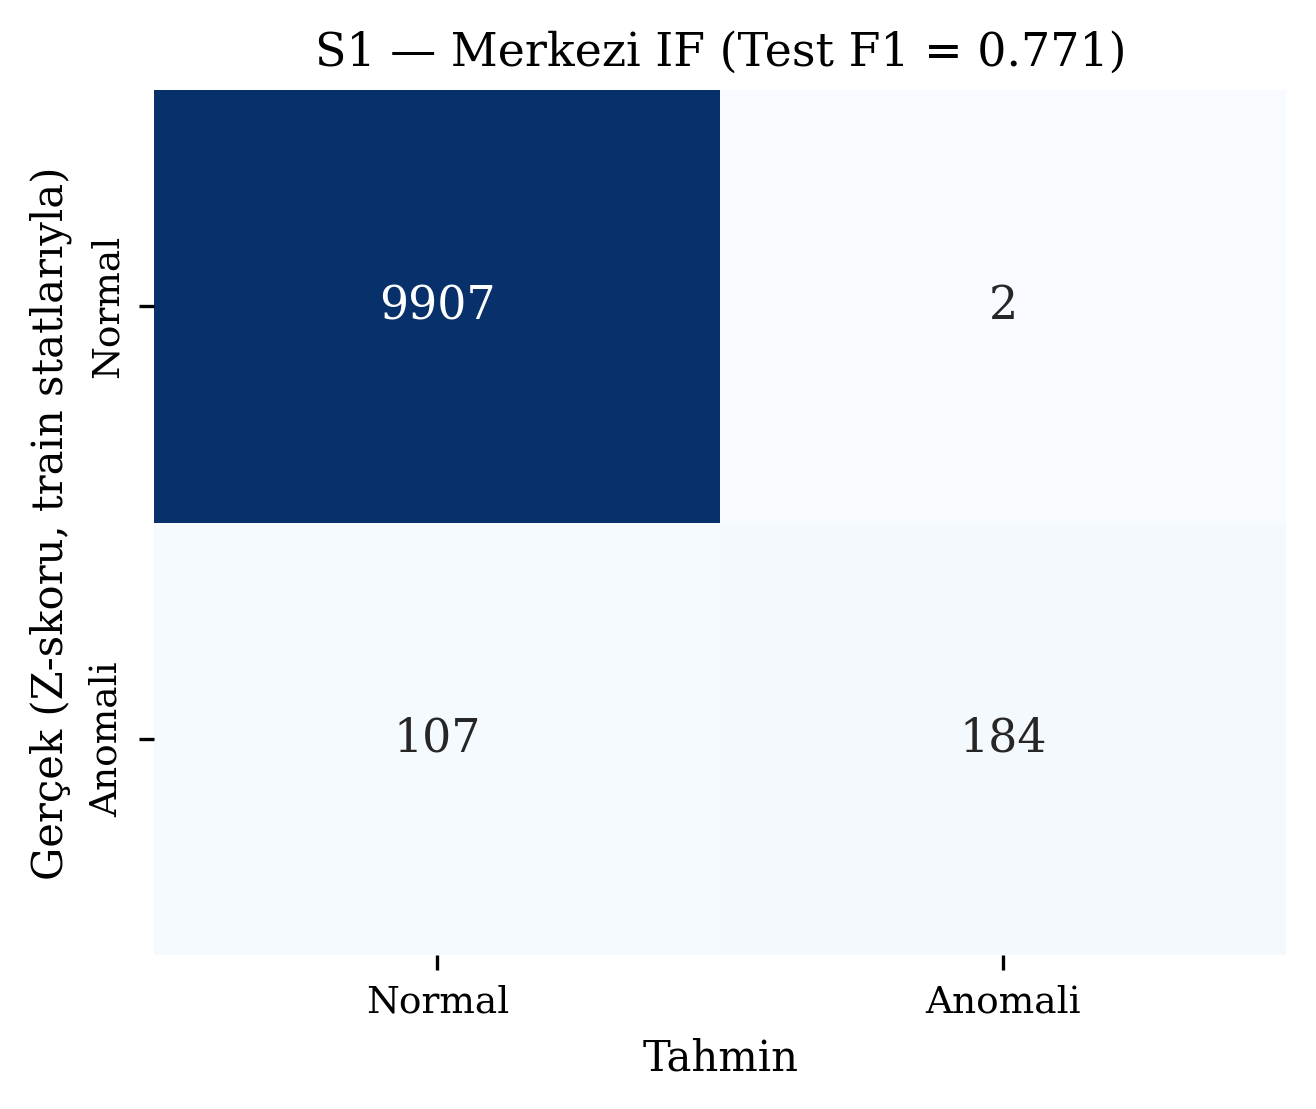
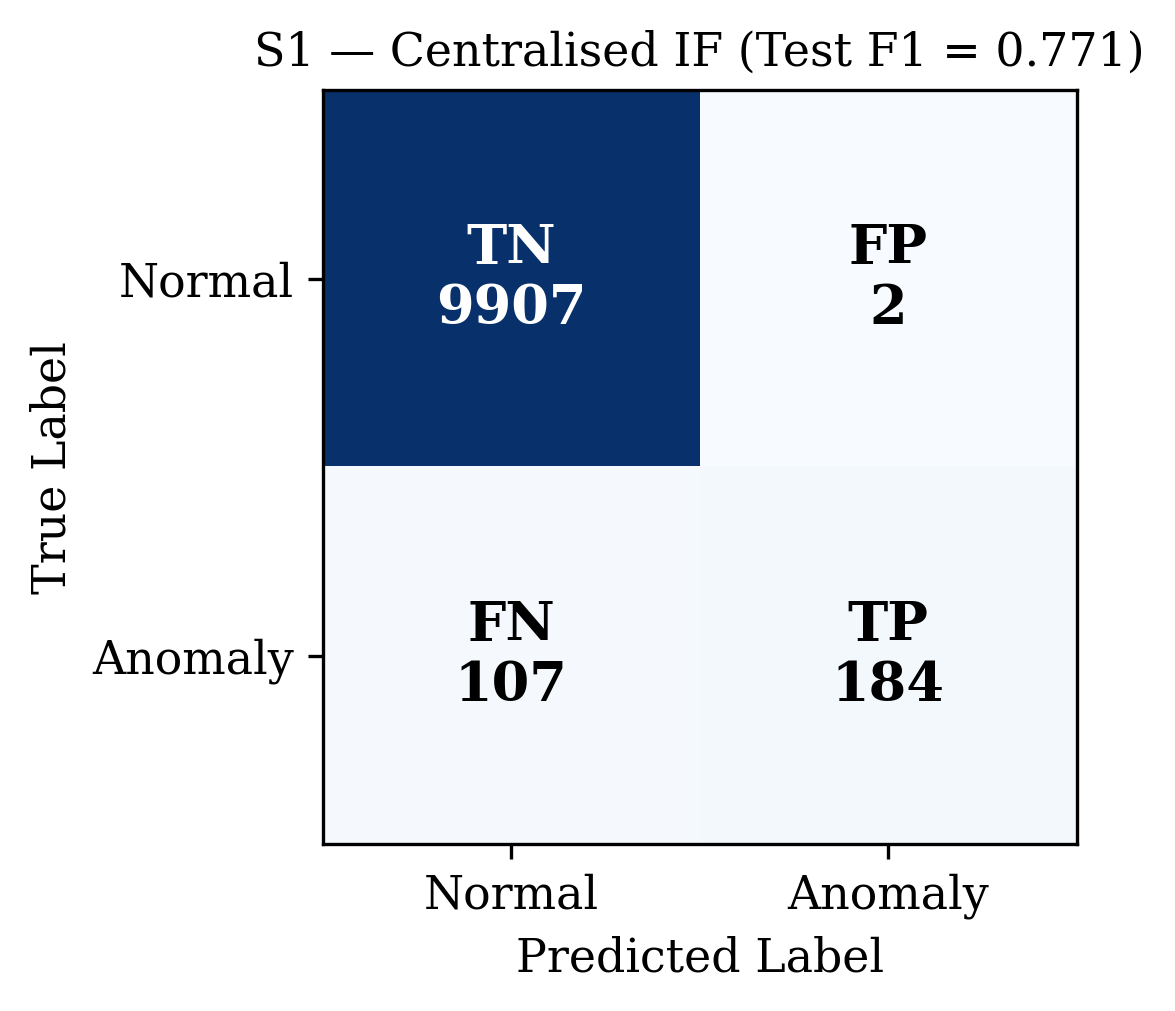
fix(fig08): English labels on confusion matrix

diff --git a/src/generate_fig08.py b/src/generate_fig08.py
@@ -1,0 +1,82 @@
+"""
+generate_fig08.py
+==================
+S1 Isolation Forest confusion matrix - English labels.
+Hardcoded values from baseline experiment:
+  TP=184, FP=2, FN=107, TN=9907
+
+Calistirma:
+    source ~/fl-env/bin/activate
+    cd ~/fl-its
+    python src/generate_fig08.py
+
+Cikti:
+    results/fig08_s1_confusion_matrix.png
+"""
+
+import os
+import numpy as np
+import matplotlib
+matplotlib.use("Agg")
+import matplotlib.pyplot as plt
+
+# ── Paths ─────────────────────────────────────────────────────────────────────
+
+REPO_ROOT   = os.path.join(os.path.dirname(os.path.abspath(__file__)), "..")
+RESULTS_DIR = os.path.join(REPO_ROOT, "results")
+OUT_PATH    = os.path.join(RESULTS_DIR, "fig08_s1_confusion_matrix.png")
+
+# ── Stil ──────────────────────────────────────────────────────────────────────
+
+plt.rcParams.update({
+    "font.family":    "serif",
+    "font.size":      11,
+    "figure.dpi":     300,
+    "savefig.dpi":    300,
+    "savefig.bbox":   "tight",
+})
+
+# ── Confusion Matrix Degerleri ────────────────────────────────────────────────
+
+TN, FP = 9907, 2
+FN, TP = 107,  184
+
+cm = np.array([[TN, FP],
+               [FN, TP]])
+
+labels = np.array([["TN\n9907", "FP\n2"],
+                   ["FN\n107",  "TP\n184"]])
+
+# ── Ciz ──────────────────────────────────────────────────────────────────────
+
+fig, ax = plt.subplots(figsize=(4.0, 3.5))
+
+# Renk haritasi — koyu = yuksek deger
+im = ax.imshow(cm, interpolation="nearest",
+               cmap=plt.cm.Blues)
+
+# Deger etiketleri
+thresh = cm.max() / 2.0
+for i in range(2):
+    for j in range(2):
+        ax.text(j, i, labels[i, j],
+                ha="center", va="center",
+                fontsize=13, fontweight="bold",
+                color="white" if cm[i, j] > thresh else "black")
+
+# Eksenler
+ax.set_xticks([0, 1])
+ax.set_yticks([0, 1])
+ax.set_xticklabels(["Normal", "Anomaly"], fontsize=11)
+ax.set_yticklabels(["Normal", "Anomaly"], fontsize=11)
+ax.set_xlabel("Predicted Label", fontsize=11)
+ax.set_ylabel("True Label", fontsize=11)
+ax.set_title(f"S1 — Centralised IF (Test F1 = 0.771)", fontsize=11)
+
+plt.tight_layout()
+plt.savefig(OUT_PATH)
+plt.close()
+
+print(f"fig08 kaydedildi: {OUT_PATH}")
+print(f"  TP={TP}, FP={FP}, FN={FN}, TN={TN}")
+print(f"  Precision={TP/(TP+FP):.4f}, Recall={TP/(TP+FN):.4f}")
